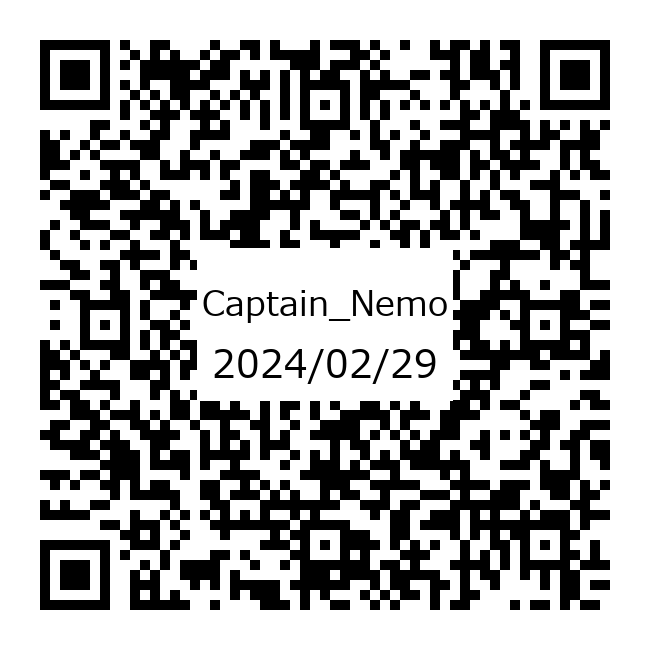
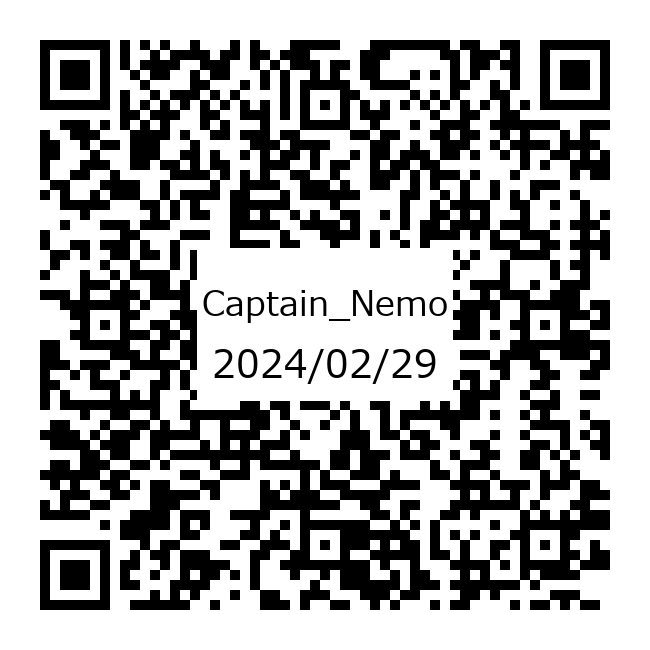
specify the T.B.D

Changed region(s): [[0.0615, 0.0615, 0.9538, 0.9231], [0.8615, 0.8, 0.9538, 0.8615], [0.9231, 0.2154, 0.9538, 0.3077]]

diff --git a/qrsign/arrange_qr/make_qr.py b/qrsign/arrange_qr/make_qr.py
@@ -83,7 +83,7 @@ def make_qr(image, name, date):
         version=10,
         error_correction=qrcode.constants.ERROR_CORRECT_H
     )
-    rsa_pub = "xxxxx"
+    rsa_pub = "T.B.D"
     qr_big.add_data("name={}:date={}:rsa_pub:{}".format(name, date, rsa_pub).encode("shift-jis"))
     qr_big.make()
     img_qr_big = qr_big.make_image().convert('RGB')
